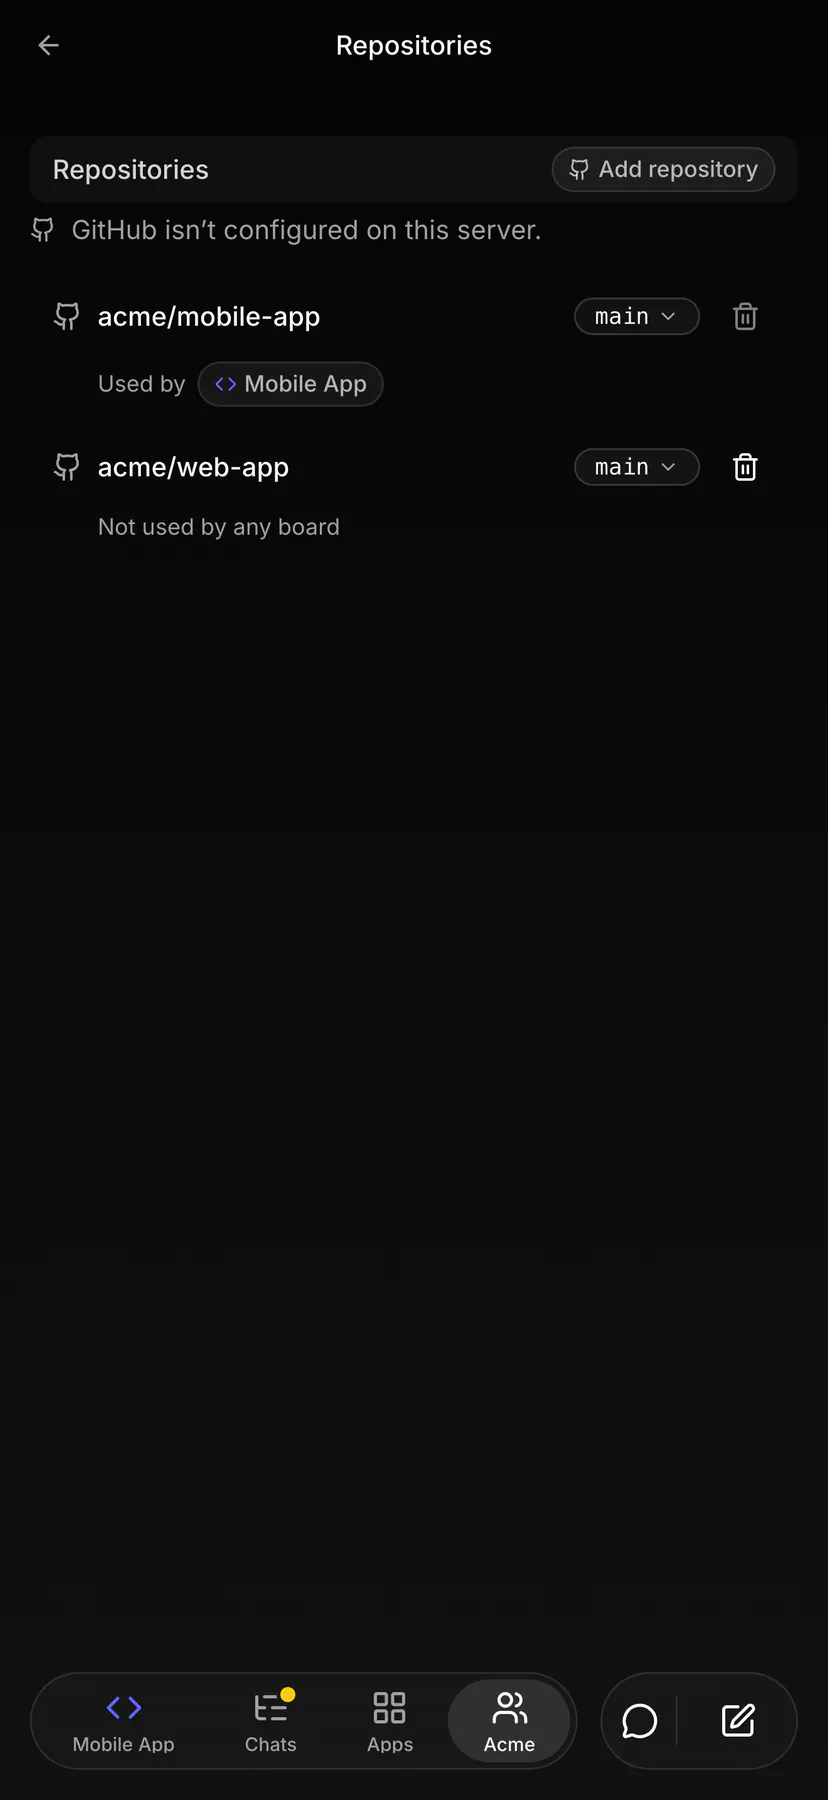
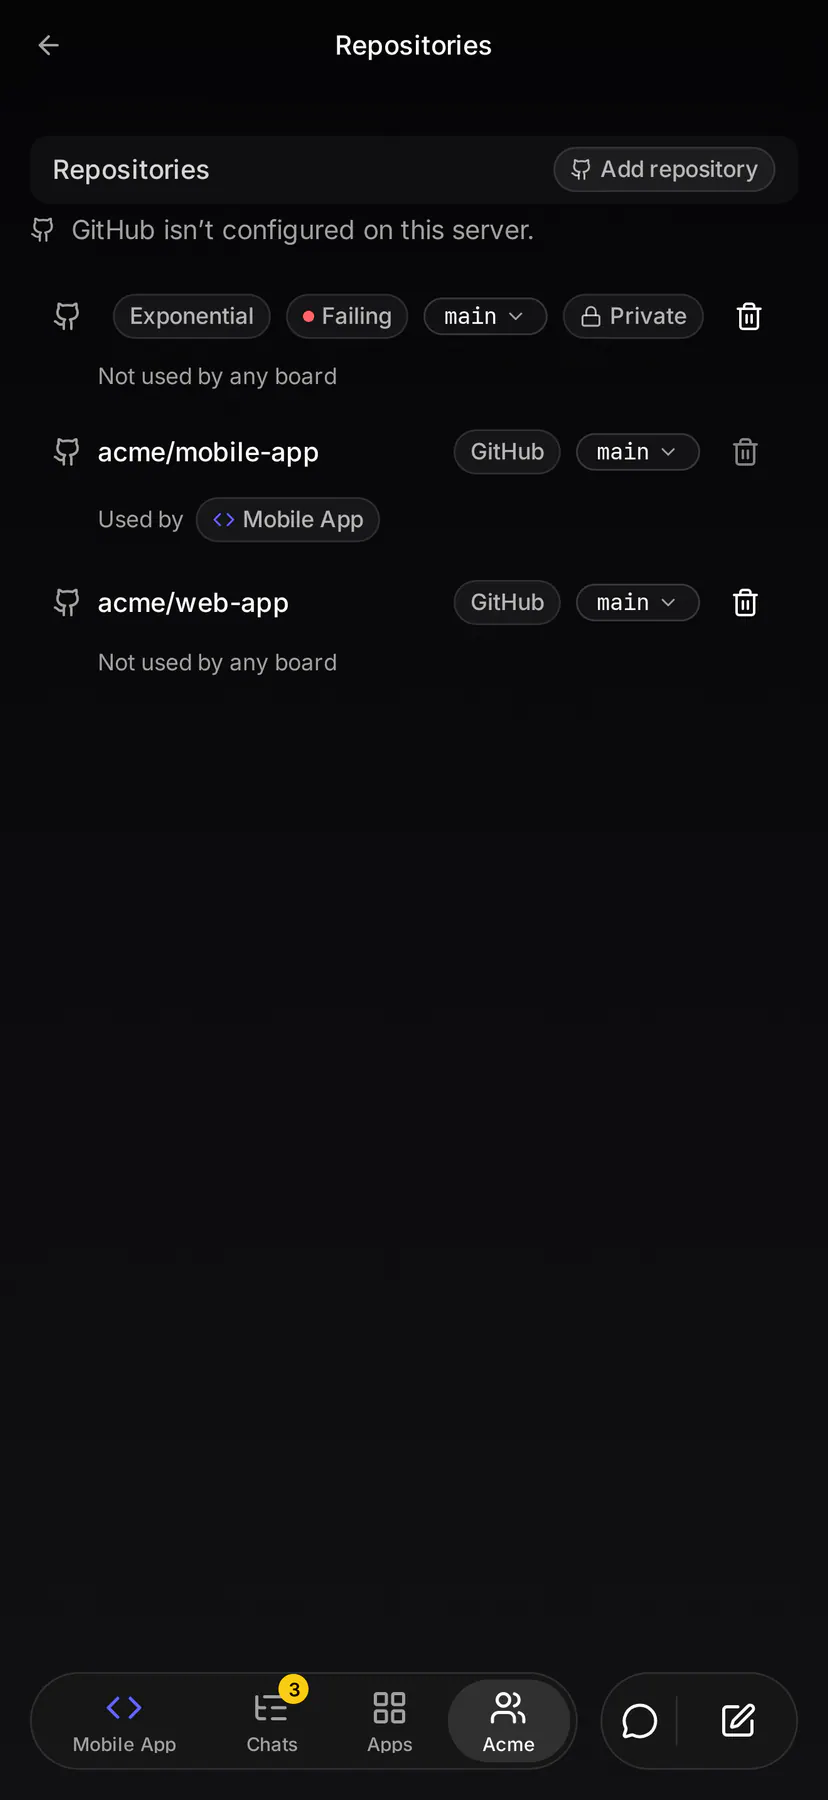
EXP-1616: repo page polish (PrRow subtitle, phone chips), web tests, web shots

diff --git a/apps/web/src/components/team/repositories-section.test.tsx b/apps/web/src/components/team/repositories-section.test.tsx
@@ -21,6 +21,16 @@ const mockState = vi.hoisted(() => ({
   openGithubConnect: vi.fn(() => true),
   openGithubPopup: vi.fn(() => true),
   toastError: vi.fn(),
+  navigate: vi.fn(),
+  createMutate: vi.fn(),
+  prs: [] as Array<Record<string, unknown>>,
+}))
+
+// #EXP-1616: the rows' checks chips read the synced pull_requests.
+vi.mock(`@/lib/collections`, () => ({ pullRequestCollection: {} }))
+vi.mock(`@tanstack/react-db`, async (importOriginal) => ({
+  ...(await importOriginal<typeof import("@tanstack/react-db")>()),
+  useLiveQuery: () => ({ data: mockState.prs }),
 }))
 
 vi.mock(`sonner`, async (importOriginal) => ({
@@ -33,6 +43,7 @@ vi.mock(`@/lib/trpc-client`, () => ({
     repositories: {
       list: { query: mockState.listQuery },
       add: { mutate: mockState.addMutate },
+      create: { mutate: mockState.createMutate },
       remove: { mutate: vi.fn() },
       listBranches: { query: mockState.listBranchesQuery },
       setDefaultBranch: { mutate: mockState.setDefaultBranchMutate },
@@ -54,6 +65,7 @@ vi.mock(`@/lib/github-connect`, () => ({
 
 vi.mock(`@tanstack/react-router`, () => ({
   useParams: () => ({ teamSlug: `acme` }),
+  useNavigate: () => mockState.navigate,
   Link: ({ children }: { children?: React.ReactNode }) => <a>{children}</a>,
 }))
 
@@ -431,5 +443,42 @@ describe(`TeamRepositoriesSection`, () => {
     expect(
       screen.getByText(/Repositories come from these accounts/)
     ).toBeTruthy()
+  })
+
+  // #EXP-1616 (repo-page.json): the provider Badge, the checks Chip{dot},
+  // the row opening the repo page, and an Exponential repo from the tiles.
+  it(`each row names its provider, rolls up its PRs' checks and opens the repo page`, async () => {
+    mockState.listQuery.mockResolvedValue([
+      repoRow(),
+      repoRow({ id: `repo-2`, fullName: `acme/engine`, provider: `ecode`, defaultBranch: `main`, installationId: null }),
+    ])
+    mockState.prs = [
+      { id: `p1`, repositoryId: `repo-2`, state: `open`, checksState: `success` },
+      { id: `p2`, repositoryId: `repo-2`, state: `open`, checksState: `failure` },
+    ]
+    renderSection()
+    expect(await screen.findByText(`Exponential`)).toBeTruthy()
+    expect(screen.getByText(`GitHub`)).toBeTruthy()
+    expect(screen.getByText(`Failing`)).toBeTruthy()
+    fireEvent.click(screen.getByText(`acme/engine`))
+    expect(mockState.navigate).toHaveBeenCalledWith({ to: `/t/$teamSlug/repos/$name`, params: { teamSlug: `acme`, name: `engine` } })
+    mockState.prs = []
+  })
+
+  it(`an owner adds an Exponential repository: name, default branch, Create`, async () => {
+    mockState.createMutate.mockReset().mockResolvedValue({ repository: {} })
+    renderSection()
+    fireEvent.click(await screen.findByRole(`button`, { name: /Add repository/ }))
+    fireEvent.click(await screen.findByRole(`radio`, { name: `Exponential` }))
+    fireEvent.change(await screen.findByLabelText(`Name`), { target: { value: `engine` } })
+    fireEvent.click(screen.getByRole(`button`, { name: `Create` }))
+    await waitFor(() => expect(mockState.createMutate).toHaveBeenCalledTimes(1))
+    expect(mockState.createMutate.mock.calls[0][0]).toEqual({ teamId: `team-1`, name: `engine`, defaultBranch: `main`, mirrorUrl: null })
+  })
+
+  it(`a member sees only the GitHub picker (owners create Exponential repositories)`, async () => {
+    renderSection({ isOwner: false })
+    fireEvent.click(await screen.findByRole(`button`, { name: /Add repository/ }))
+    expect(screen.queryByRole(`radio`, { name: `Exponential` })).toBeNull()
   })
 })

diff --git a/packages/ui/src/pr-row.tsx b/packages/ui/src/pr-row.tsx
@@ -71,6 +71,9 @@ export interface PrRowProps
   title: string
   /** A quiet trailing word (`stack` on a stack's top row). */
   word?: string | null
+  /** #EXP-1616: a second line under the title (genUI `Row.subtitle`: the
+   *  repo page's `head → base`); the row grows to two lines. */
+  subtitle?: string | null
   depth?: number
   /** Tree shape: this row's connector geometry. */
   guide?: TreeGuide | null
@@ -87,6 +90,7 @@ export function PrRow({
   identifier = null,
   title,
   word = null,
+  subtitle = null,
   depth = 0,
   guide = null,
   rail = null,
@@ -110,7 +114,7 @@ export function PrRow({
       onClick={onClick}
       data-pr-row={node}
       className={cn(
-        `relative h-10 gap-2 py-0 pr-3 md:h-9`,
+        subtitle ? `relative min-h-12 gap-2 py-1.5 pr-3` : `relative h-10 gap-2 py-0 pr-3 md:h-9`,
         clickable &&
           `cursor-pointer transition-colors duration-fast hover:bg-glass-row has-[[data-slot=pr-row-open]:focus-visible]:ring-[3px] has-[[data-slot=pr-row-open]:focus-visible]:ring-ring/50`,
         className
@@ -153,18 +157,27 @@ export function PrRow({
       >
         <PrNode state={node} />
         {identifier && (
-          <span className="min-w-[4.5rem] shrink-0 font-mono text-xs text-muted-foreground">
+          <span className={cn(`shrink-0 font-mono text-xs text-muted-foreground`, subtitle ? `min-w-8` : `min-w-[4.5rem]`)}>
             {identifier}
           </span>
         )}
-        <span
-          className={cn(
-            `min-w-0 flex-1 truncate`,
-            base ? `font-mono text-xs text-muted-foreground` : `text-sm`
-          )}
-        >
-          {title}
-        </span>
+        {subtitle ? (
+          <span className="flex min-w-0 flex-1 flex-col">
+            <span className="truncate text-sm">{title}</span>
+            <span data-slot="pr-row-subtitle" className="truncate font-mono text-[11.5px] text-muted-foreground">
+              {subtitle}
+            </span>
+          </span>
+        ) : (
+          <span
+            className={cn(
+              `min-w-0 flex-1 truncate`,
+              base ? `font-mono text-xs text-muted-foreground` : `text-sm`
+            )}
+          >
+            {title}
+          </span>
+        )}
         {word && (
           <span data-slot="pr-row-word" className="shrink-0 text-[11.5px] text-muted-foreground">
             {word}
@@ -181,6 +194,8 @@ export interface PrListRow {
   key: string
   identifier?: string | null
   title: string
+  /** #EXP-1616: the row's second line (`PrRow.subtitle`). */
+  subtitle?: string | null
   depth?: number
   node?: PrNodeState
   word?: string | null
@@ -207,6 +222,7 @@ export function PrList({
           node={row.node}
           identifier={row.identifier}
           title={row.title}
+          subtitle={row.subtitle}
           word={row.word}
           depth={row.depth ?? 0}
           guide={guides[index]}

diff --git a/apps/web/src/components/repo/repo-page.tsx b/apps/web/src/components/repo/repo-page.tsx
@@ -13,8 +13,8 @@ import {
   Button,
   EmptyState,
   GlassSectionHeader,
+  GlassInputRow,
   GlassToggleRow,
-  Input,
   ListRow,
   Pill,
   PrList,
@@ -161,12 +161,13 @@ function PullsTab({ prs, member }: { prs: PrRow[]; member: boolean }) {
           identifier: row.identifier,
           title: row.title,
           depth: row.depth,
-          word: row.subtitle,
+          subtitle: row.subtitle,
           trailing: (
             <span className="flex shrink-0 items-center gap-1.5">
               {row.checks && (
                 <Pill size="sm" dot={checksDotColor(row.checks)}>
-                  {checksLabel(row.checks)}
+                  {/* Phones: the dot alone (the label stays for screen readers). */}
+                  <span className="max-md:sr-only">{checksLabel(row.checks)}</span>
                 </Pill>
               )}
               <PullRequestStatusPill pr={pr} member={member} />
@@ -333,25 +334,23 @@ function SettingsTab({ repo, isOwner }: { repo: Repo; isOwner: boolean }) {
                   )
                 }
               />
-              <ListRow className="gap-3 px-4 py-3">
-                <span className="shrink-0 text-sm">{COPY.settings.mirrorUrl}</span>
-                <Input
-                  value={mirrorUrl}
-                  disabled={!isOwner || busy}
-                  placeholder="https://github.com/owner/name"
-                  className="h-8 flex-1 text-right"
-                  onChange={(e) => setMirrorUrl(e.target.value)}
-                  onBlur={() =>
-                    mirrorUrl.trim() !== (settings.mirrorUrl ?? ``) &&
-                    void act(`save`, `the mirror`, () =>
-                      trpc.repositories.setMirror.mutate(
-                        { repositoryId: repo.id, mirrorUrl: mirrorUrl.trim() || null, enabled: settings.mirrorEnabled },
-                        SKIP_ERROR_TOAST
-                      )
+              <GlassInputRow
+                id="repo-mirror-url"
+                label={COPY.settings.mirrorUrl}
+                value={mirrorUrl}
+                disabled={!isOwner || busy}
+                placeholder="https://github.com/owner/name"
+                onChange={(e) => setMirrorUrl(e.target.value)}
+                onBlur={() =>
+                  mirrorUrl.trim() !== (settings.mirrorUrl ?? ``) &&
+                  void act(`save`, `the mirror`, () =>
+                    trpc.repositories.setMirror.mutate(
+                      { repositoryId: repo.id, mirrorUrl: mirrorUrl.trim() || null, enabled: settings.mirrorEnabled },
+                      SKIP_ERROR_TOAST
                     )
-                  }
-                />
-              </ListRow>
+                  )
+                }
+              />
             </div>
           </div>
         </>

diff --git a/apps/web/scripts/seed-screenshots.ts b/apps/web/scripts/seed-screenshots.ts
@@ -3351,8 +3351,8 @@ async function seedEcodeRepository(teamId: string): Promise<void> {
   })
   await db.insert(pullRequests).values([
     pr(1, `Pack cursor for incremental fetches`, `exp/APP-31`, `main`, { checksState: `success`, mergeState: `queued`, mergePosition: 1 }),
-    pr(2, `Repack once packs pile up`, `exp/APP-32`, `exp/APP-31`, { checksState: `pending` }),
-    pr(3, `Mirror prunes deleted branches`, `exp/APP-33`, `exp/APP-31`, { checksState: `failure` }),
+    pr(2, `Repack once packs pile up`, `exp/APP-32`, `exp/APP-31`, { checksState: `pending`, mergeWait: `checks` }),
+    pr(3, `Mirror prunes deleted branches`, `exp/APP-33`, `exp/APP-31`, { checksState: `failure`, mergeState: `failing` }),
     pr(4, `Document exp:// remotes`, `exp/docs`, `main`, { state: `draft`, mergeState: `draft` }),
   ])
   await db.insert(repoPacks).values([

diff --git a/apps/web/src/routeTree.gen.ts b/apps/web/src/routeTree.gen.ts
@@ -3464,3 +3464,13 @@ const rootRouteChildren: RootRouteChildren = {
 export const routeTree = rootRouteImport
   ._addFileChildren(rootRouteChildren)
   ._addFileTypes<FileRouteTypes>()
+
+import type { getRouter } from './router.tsx'
+import type { startInstance } from './start.tsx'
+declare module '@tanstack/react-start' {
+  interface Register {
+    ssr: true
+    router: Awaited<ReturnType<typeof getRouter>>
+    config: Awaited<ReturnType<typeof startInstance.getOptions>>
+  }
+}
